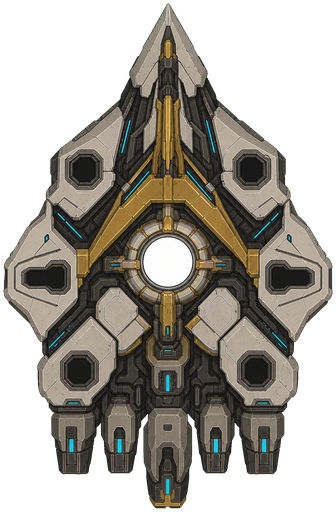
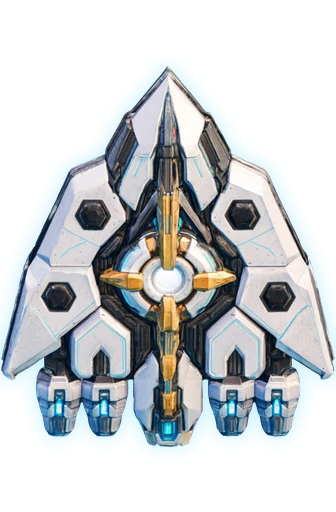
feat(art): §G-9 2D 스프라이트 26종을 3D 실모델 렌더로 교체 — 2D↔3D 일관성(이사 지시)
- tools/sprite-render.{html,js}: 실전 3D 와 같은 IBL·조명으로 GLB 를 정사각 타이트 렌더
  (개발 전용 — 빌드 매니페스트가 명시 목록이라 tools/ 는 배포에 안 들어감)
  구도 계약: 적·보스·픽업=front(2D 원본이 정면 실루엣), 기함·아군=top+18° 기울임
  (순수 직하방은 함선이 뭉툭해 원본의 날렵함이 죽음 — 실측)
- scripts/sprite_finalize.py: 렌더는 사실적 PBR 이라 2D 아트보다 어둡고 밋밋 → 채도·밝기 보정 +
  실루엣 외곽 발광(어두운 우주 배경 식별성). fit_to_reference 로 원본 캔버스 규격·채움비·중심 재현
- ⚠규격 사고 1회: 캔버스 크기를 추정으로 넣었다가 20종이 원본과 어긋남(게임 blit 배율이
  원본 종횡비에 묶여 있음) → 정사각 렌더 + 파이썬이 원본 기준으로 맞추는 구조로 재작업, 불일치 0
- 교체 26종: 적 12 + 보스 6 + 기함/아군 6(A1~A6) + 픽업 2. 원본 백업=
  E:\workspace\claude\neon-fleet-2d-art-backup-20260807- 865/865, 포털 빌드 46.62 → 41.65MB(새 스프라이트가 더 가벼움)

diff --git a/tools/sprite-render.js b/tools/sprite-render.js
@@ -1,0 +1,115 @@
+// ── §G-9 3D 실모델 → 2D 스프라이트 렌더 도구(이사 "3D 이미지들도 2D 에 적용해 일관성 유지") ──
+//  게임에는 포함되지 않는 개발 전용 페이지(tools/ 는 배포 빌드 매니페스트 밖).
+//  구도 계약: 2D 원본과 같은 시점·같은 캔버스 비율로 뽑아야 히트박스·blit 배율(SHIP_ART_ASPECT 등)이 그대로 맞는다.
+//   - 적·보스·픽업 = front(정면, 화면 위=+y) — 2D 원본이 "뿔 위·부리 아래" 정면 실루엣이다.
+//   - 기함·아군    = top(위에서 내려봄, 화면 위=+z 노즈) — 2D 원본이 위에서 본 함선이다.
+//  알파 배경 그대로 저장 → 파이썬이 트림·리사이즈·webp 변환해 실제 아트를 교체한다.
+import * as THREE from '../js/vendor/three.module.js';
+import { loadEnemyGlbParts } from '../js/chase3d-glb.js';
+import { forgeEnvEquirect } from '../js/chase3d-aurora-materials.js';
+import { ENEMY3D, ALLY3D, PICKUP3D, FLAG3D } from '../js/chase3d-prop-defs.js';
+
+const CAP = 'http://127.0.0.1:9098/save?name=';
+const log = (m) => { document.getElementById('log').textContent += '\n' + m; };
+
+// 대상 = { out: 저장 이름, glb, rot(모델 로컬 보정), view: 'front'|'top' }
+//  ⚠캔버스는 여기서 원본 규격에 맞추지 않는다 — 정사각 SQ 에 개체만 타이트하게 뽑고,
+//   원본 캔버스 규격·채움비 정합은 scripts/sprite_finalize.py 가 맡는다(원본 종횡비가 종마다 달라
+//   여기서 맞추려다 20종 규격이 어긋났던 실측 사고 재발 방지 — 게임 blit 배율이 원본 비율에 묶여 있다).
+const SQ = 768;
+const TARGETS = [];
+for (const [k, def] of Object.entries(ENEMY3D)) {
+  if (!def.glb) continue;
+  TARGETS.push({ out: `sprite_${k.toUpperCase()}`, glb: def.glb, rot: { rotX: def.rotX, rotY: def.rotY }, view: 'front' });
+}
+// 기함 6등급 → A1..A6 (게임 2D 는 A1=드론/T0, A2=순양함/T1, A3=T2, A4=T3, A5=T4, A6=T5)
+[['A1', 0], ['A2', 1], ['A3', 2], ['A4', 3], ['A5', 4], ['A6', 5]].forEach(([name, tier]) => {
+  const d = FLAG3D[tier];
+  TARGETS.push({ out: `sprite_${name}`, glb: d.glb, rot: { rotX: d.rotX, rotY: d.rotY }, view: 'top' });
+});
+// 픽업(정면) — C1 크리스탈 / C5 보급 수송선
+TARGETS.push({ out: 'sprite_C1', glb: PICKUP3D.crystal.glb, rot: {}, view: 'front' });
+TARGETS.push({ out: 'sprite_C5', glb: PICKUP3D.pod.glb, rot: {}, view: 'front' });
+for (const t of TARGETS) { t.w = SQ; t.h = SQ; }
+
+const canvas = document.createElement('canvas');
+const renderer = new THREE.WebGLRenderer({ canvas, alpha: true, antialias: true, preserveDrawingBuffer: true });
+renderer.setClearColor(0x000000, 0);
+renderer.outputColorSpace = THREE.SRGBColorSpace;
+renderer.toneMapping = THREE.ACESFilmicToneMapping;
+renderer.toneMappingExposure = 1.12;
+const scene = new THREE.Scene();
+// 검사실과 같은 IBL + 조명(실전 3D 와 톤을 맞춰야 "일관성"이 성립)
+const envRaw = forgeEnvEquirect(7);
+const envTex = new THREE.DataTexture(envRaw.data, envRaw.w, envRaw.h, THREE.RGBAFormat, THREE.UnsignedByteType);
+envTex.colorSpace = THREE.SRGBColorSpace; envTex.mapping = THREE.EquirectangularReflectionMapping; envTex.needsUpdate = true;
+const pmrem = new THREE.PMREMGenerator(renderer);
+const envRT = pmrem.fromEquirectangular(envTex);
+scene.environment = envRT.texture;
+pmrem.dispose(); envTex.dispose();
+const key = new THREE.DirectionalLight(0xffe9cf, 2.5); key.position.set(-4.5, 6.5, 5.5);
+const fill = new THREE.DirectionalLight(0x9fc2ff, 0.9); fill.position.set(5, 2.5, 3.5);
+const rim = new THREE.DirectionalLight(0x8fe8ff, 1.0); rim.position.set(2.5, 3.2, -6.5);
+const hemi = new THREE.HemisphereLight(0x2a3038, 0x0c0e12, 0.6);
+const facing = new THREE.DirectionalLight(0xffe8dc, 1.25); facing.position.set(0, 2.0, 9);   // 카메라 쪽 정면광(실전 faceLight 대응)
+scene.add(key, fill, rim, hemi, facing);
+const camera = new THREE.OrthographicCamera(-1, 1, 1, -1, 0.01, 400);
+
+async function renderOne(t) {
+  const holder = new THREE.Group();
+  const parts = await loadEnemyGlbParts(THREE, '../' + t.glb, t.rot);
+  for (const p of parts) holder.add(new THREE.Mesh(p.geo, p.mat));
+  scene.add(holder);
+
+  canvas.width = t.w; canvas.height = t.h;
+  renderer.setPixelRatio(1); renderer.setSize(t.w, t.h, false);
+
+  const box = new THREE.Box3().setFromObject(holder);
+  const c = new THREE.Vector3(); box.getCenter(c);
+  const s = new THREE.Vector3(); box.getSize(s);
+  // 시점별 카메라 축과 화면 가로/세로에 대응하는 모델 치수
+  //  top 은 순수 직하방이 아니라 앞으로 18° 기울인다 — 완전 평면은 함선이 뭉툭해 보여 원본의 날렵함이 죽는다(실측).
+  const TILT = 18 * Math.PI / 180;
+  let spanX, spanY;
+  if (t.view === 'top') {
+    camera.position.set(c.x, c.y + 50 * Math.cos(TILT), c.z + 50 * Math.sin(TILT));
+    camera.up.set(0, Math.sin(TILT), Math.cos(TILT));                  // 화면 위 = +z(노즈)
+    spanX = s.x; spanY = s.z * Math.cos(TILT) + s.y * Math.sin(TILT);
+  } else {
+    camera.position.set(c.x, c.y, c.z + 50); camera.up.set(0, 1, 0);   // 화면 위 = +y
+    spanX = s.x; spanY = s.y;
+  }
+  camera.lookAt(c);
+  // 정사각 캔버스에 개체를 타이트하게(여백 2%) — 규격·채움비 정합은 파이썬 마감 단계가 맡는다
+  const margin = 1.02;
+  const halfW = Math.max(spanX * margin / 2, (spanY * margin / 2) * (t.w / t.h));
+  const halfH = halfW * (t.h / t.w);
+  camera.left = -halfW; camera.right = halfW; camera.top = halfH; camera.bottom = -halfH;
+  camera.updateProjectionMatrix();
+
+  renderer.render(scene, camera);
+  const data = canvas.toDataURL('image/png');
+  await fetch(CAP + t.out + '.png', { method: 'POST', body: data });
+
+  // 화면 미리보기(작게)
+  const prev = document.createElement('canvas');
+  prev.width = Math.round(t.w * 0.28); prev.height = Math.round(t.h * 0.28);
+  prev.getContext('2d').drawImage(canvas, 0, 0, prev.width, prev.height);
+  prev.title = t.out; document.getElementById('out').appendChild(prev);
+
+  scene.remove(holder);
+  holder.traverse((o) => { if (o.isMesh) { o.geometry.dispose(); if (o.material.map) o.material.map.dispose(); o.material.dispose(); } });
+  return `${t.out} ${t.w}x${t.h} span=${spanX.toFixed(2)}x${spanY.toFixed(2)}`;
+}
+
+const q = new URLSearchParams(location.search).get('run');
+if (q) {
+  const list = q === '1' ? TARGETS : TARGETS.filter((t) => t.out.toLowerCase().endsWith('_' + q.toLowerCase()));
+  log(`대상 ${list.length}종 렌더 시작`);
+  (async () => {
+    for (const t of list) { try { log(await renderOne(t)); } catch (e) { log(`${t.out} 실패: ${e && e.message}`); } }
+    log('DONE');
+    window.__SPRITE_DONE = true;
+  })();
+}
+window.__SPRITE_TARGETS = TARGETS;

diff --git a/tools/sprite-render.html b/tools/sprite-render.html
@@ -1,0 +1,19 @@
+<!doctype html>
+<html lang="ko">
+<head>
+<meta charset="utf-8">
+<title>네온 함대 — 3D→2D 스프라이트 렌더 도구</title>
+<style>
+  body { margin: 0; background: #0b0d14; color: #cfe6ff; font: 14px/1.6 system-ui, sans-serif; padding: 16px; }
+  #log { white-space: pre-wrap; font-family: ui-monospace, monospace; font-size: 12px; }
+  canvas { image-rendering: pixelated; border: 1px solid #223; margin: 4px; vertical-align: top; }
+  h1 { font-size: 16px; margin: 0 0 8px; }
+</style>
+</head>
+<body>
+<h1>3D → 2D 스프라이트 렌더 (개발 도구 — 게임에 포함되지 않음)</h1>
+<div id="log">대기 중… <code>?run=1</code> 로 전체 렌더, <code>?run=b1</code> 로 단일 렌더.</div>
+<div id="out"></div>
+<script type="module" src="./sprite-render.js"></script>
+</body>
+</html>

diff --git a/scripts/sprite_finalize.py b/scripts/sprite_finalize.py
@@ -1,0 +1,89 @@
+# -*- coding: utf-8 -*-
+"""§G-9 3D 렌더 → 게임 2D 스프라이트 마감.
+
+이유: 3D 렌더는 사실적 PBR 이라 게임 2D 아트(발광·채도를 과장해 어두운 우주 배경에서 개체를 즉시 식별시키는 그림)
+보다 어둡고 밋밋하다. 그대로 넣으면 "예쁘지만 안 보이는" 스프라이트가 된다(실측 판단).
+그래서 렌더 원본을 (1) 채도·밝기 보정 (2) 실루엣 외곽 발광(어두운 배경 대비) 순으로 마감한 뒤 교체한다.
+
+사용: python scripts/sprite_finalize.py <입력.png> <출력경로> [--glow 색상] [--sat 1.25] [--bright 1.10]
+"""
+import sys
+from PIL import Image, ImageEnhance, ImageFilter
+
+
+def fit_to_reference(im, ref):
+    """정사각 타이트 렌더를 원본 스프라이트(ref)의 캔버스 규격·채움비에 맞춘다.
+
+    게임은 스프라이트 캔버스 비율에 blit 배율을 묶어 둔다(SHIP_ART_ASPECT 등). 규격이 바뀌면
+    개체 크기·히트박스 표시가 어긋나므로, 원본의 (캔버스 크기, 알파 bbox 채움비, bbox 중심)을
+    그대로 재현한다. 종횡비가 달라도 '화면에서 차지하는 크기'가 원본과 같아진다.
+    """
+    rw, rh = ref.size
+    rb = ref.split()[3].getbbox() or (0, 0, rw, rh)
+    ref_w, ref_h = rb[2] - rb[0], rb[3] - rb[1]
+    ref_cx, ref_cy = (rb[0] + rb[2]) / 2, (rb[1] + rb[3]) / 2
+
+    b = im.split()[3].getbbox()
+    if not b:
+        return im.resize((rw, rh), Image.LANCZOS)
+    body = im.crop(b)
+    # 원본 bbox 안에 들어가는 최대 배율(종횡비 보존)
+    k = min(ref_w / body.width, ref_h / body.height)
+    nw, nh = max(1, round(body.width * k)), max(1, round(body.height * k))
+    body = body.resize((nw, nh), Image.LANCZOS)
+
+    out = Image.new('RGBA', (rw, rh), (0, 0, 0, 0))
+    out.paste(body, (round(ref_cx - nw / 2), round(ref_cy - nh / 2)))
+    return out
+
+
+def finalize(src, dst, sat=1.25, bright=1.10, glow=None, glow_strength=0.55, glow_radius=9, ref=None):
+    im = Image.open(src).convert('RGBA')
+    if ref is not None:
+        im = fit_to_reference(im, Image.open(ref).convert('RGBA'))
+    rgb = Image.merge('RGB', im.split()[:3])
+    alpha = im.split()[3]
+
+    rgb = ImageEnhance.Color(rgb).enhance(sat)
+    rgb = ImageEnhance.Brightness(rgb).enhance(bright)
+    rgb = ImageEnhance.Contrast(rgb).enhance(1.06)
+    body = Image.merge('RGBA', (*rgb.split(), alpha))
+
+    if glow:
+        # 실루엣(알파)을 흐려 만든 후광을 본체 뒤에 깔아 어두운 배경에서 윤곽이 뜨게 한다.
+        halo_a = alpha.filter(ImageFilter.GaussianBlur(glow_radius))
+        halo_a = halo_a.point(lambda v: int(min(255, v * glow_strength)))
+        halo = Image.new('RGBA', im.size, glow + (0,))
+        halo.putalpha(halo_a)
+        out = Image.alpha_composite(halo, body)
+    else:
+        out = body
+
+    if dst.lower().endswith('.webp'):
+        out.save(dst, 'WEBP', quality=92, method=6, lossless=False)
+    else:
+        out.save(dst)
+    return out.size
+
+
+if __name__ == '__main__':
+    a = sys.argv[1:]
+    if len(a) < 2:
+        print(__doc__)
+        sys.exit(1)
+    kw = {}
+    glow = None
+    i = 2
+    while i < len(a):
+        if a[i] == '--sat':
+            kw['sat'] = float(a[i + 1]); i += 2
+        elif a[i] == '--bright':
+            kw['bright'] = float(a[i + 1]); i += 2
+        elif a[i] == '--glow':
+            h = a[i + 1].lstrip('#')
+            glow = (int(h[0:2], 16), int(h[2:4], 16), int(h[4:6], 16)); i += 2
+        elif a[i] == '--glowstr':
+            kw['glow_strength'] = float(a[i + 1]); i += 2
+        else:
+            i += 1
+    print(finalize(a[0], a[1], glow=glow, **kw))
